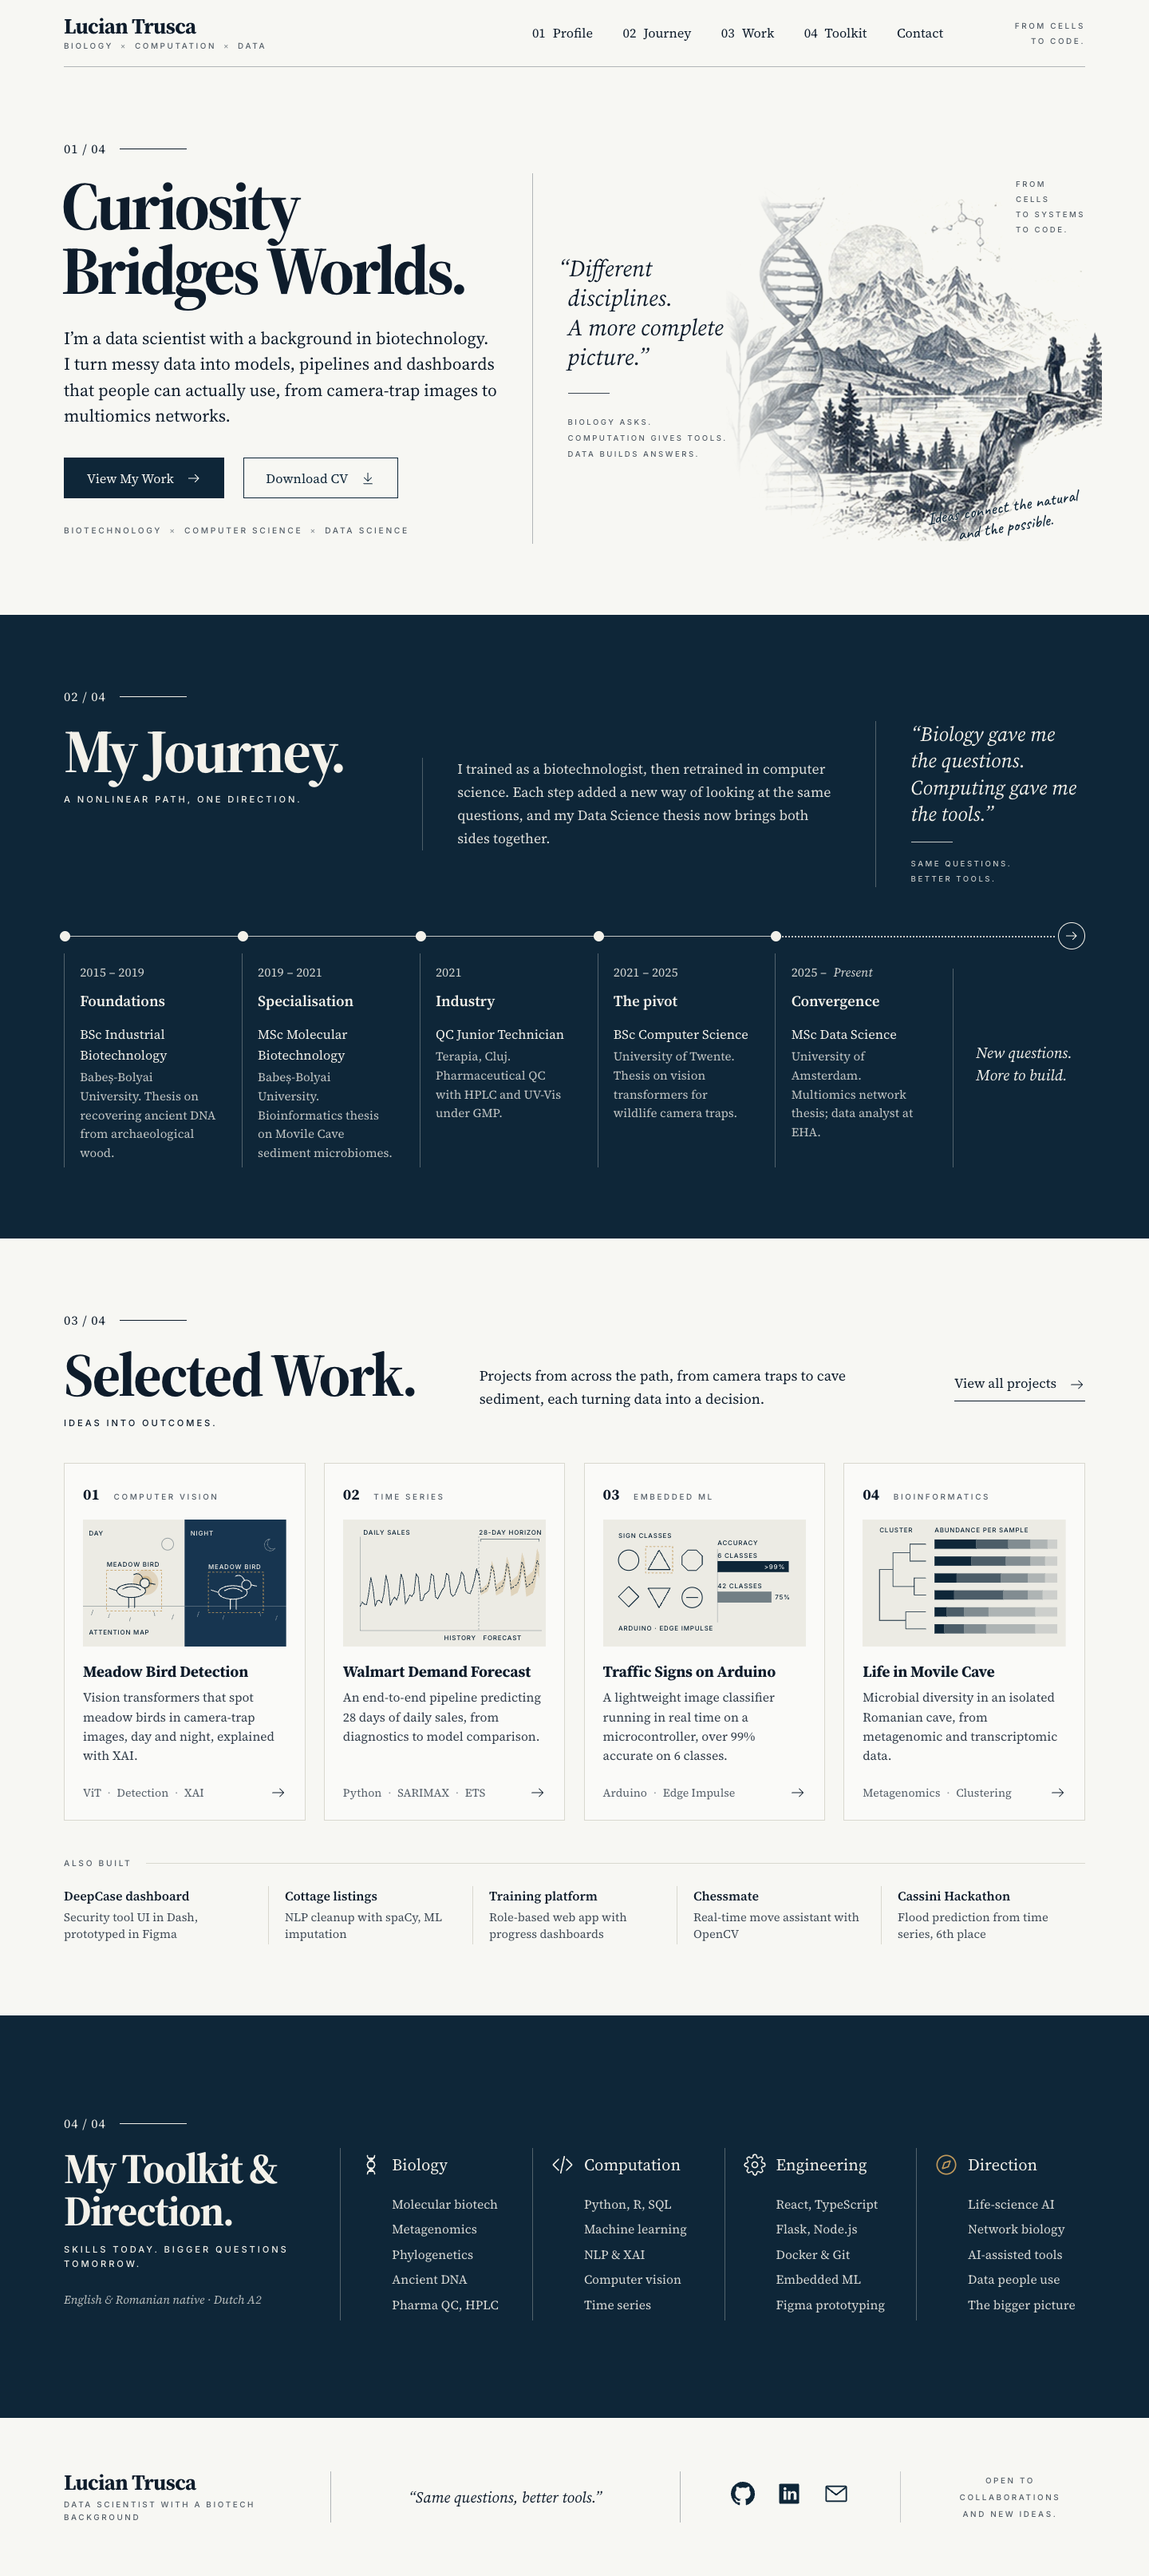
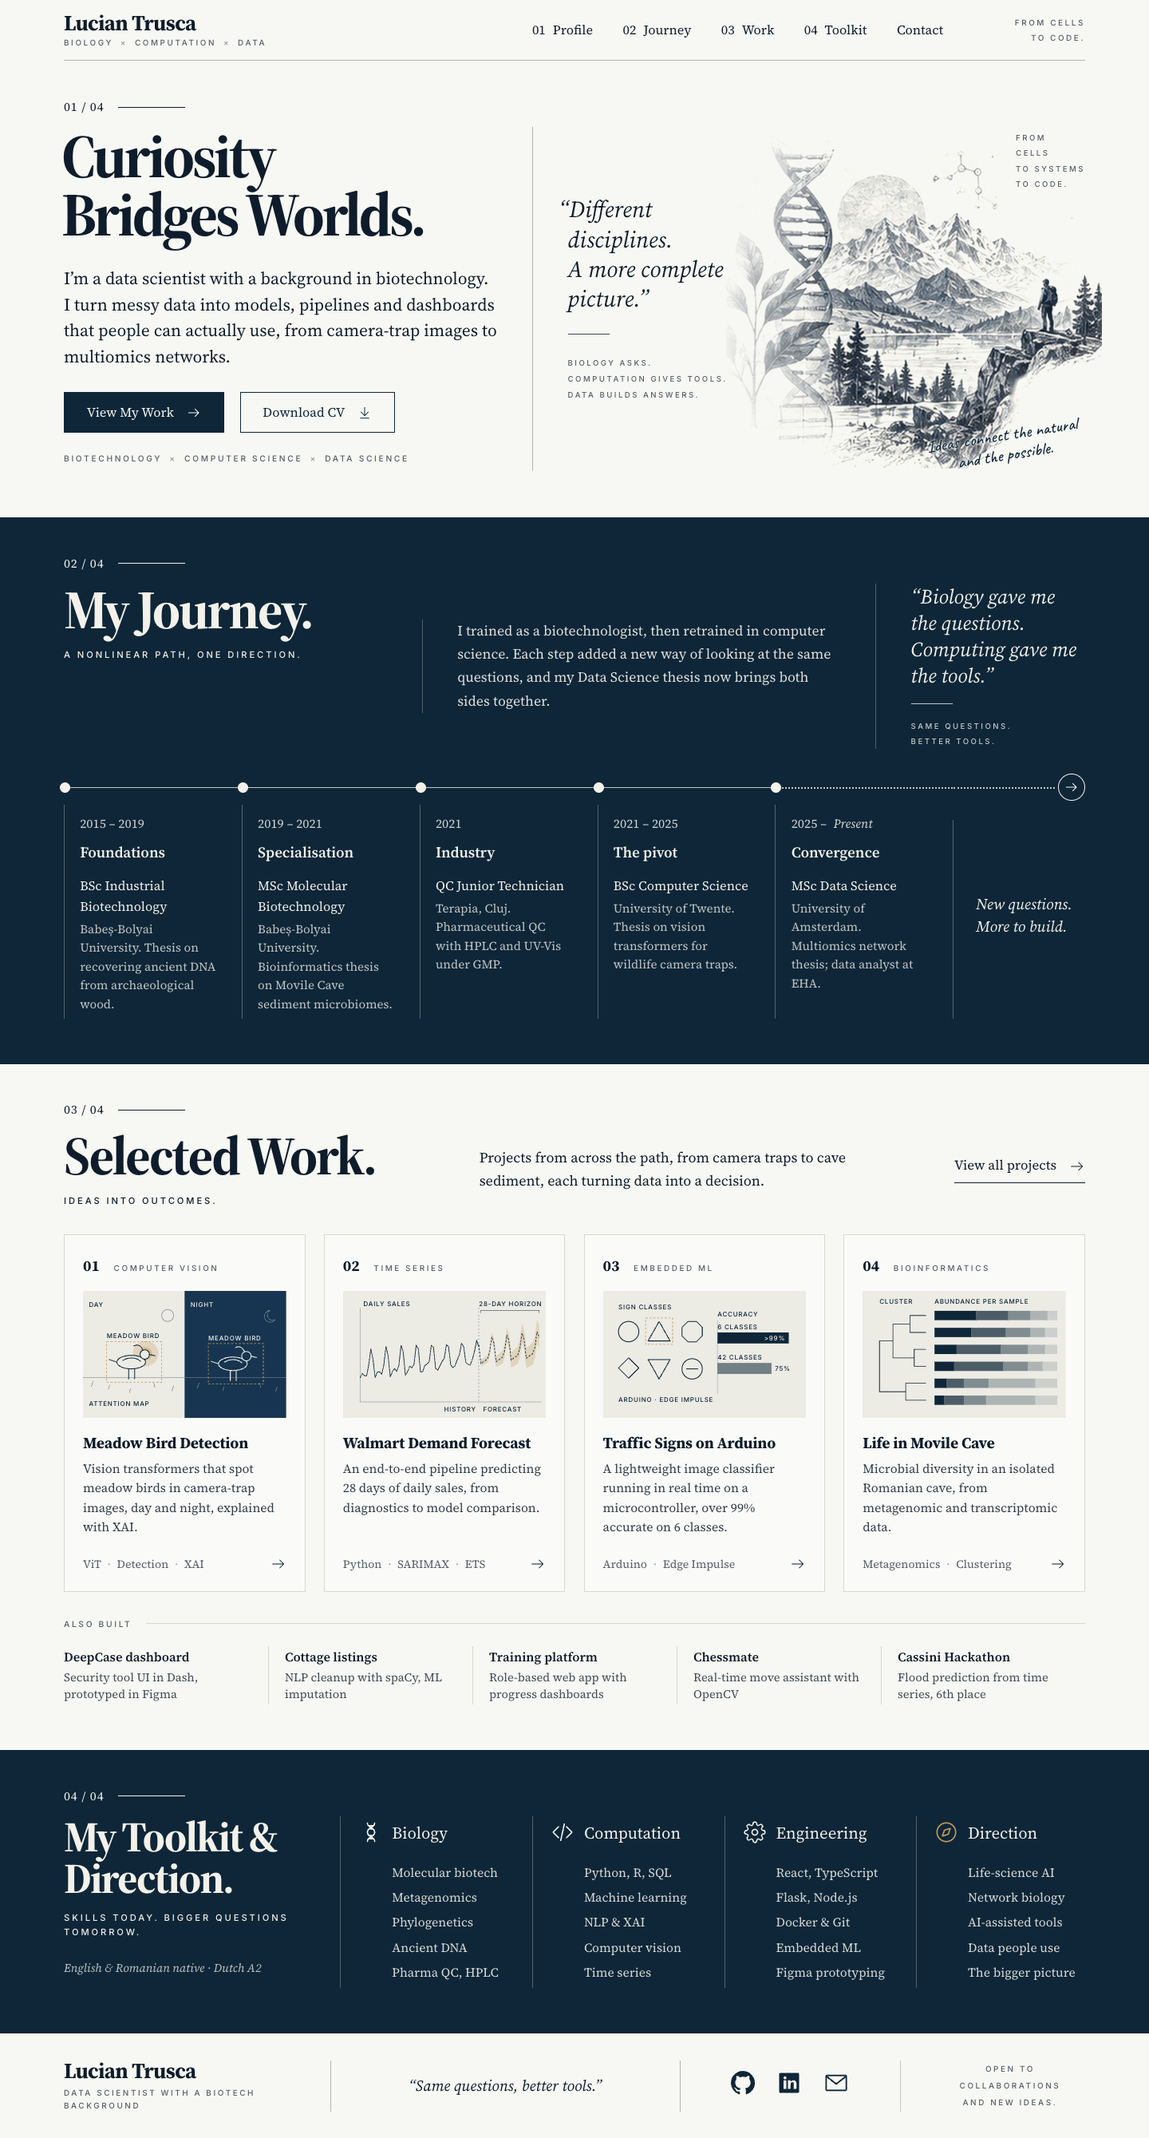
Tighten section spacing and type scale
Less top padding per band, content-driven heights, headlines ~10% smaller.

diff --git a/src/styles/tokens.css b/src/styles/tokens.css
@@ -15,14 +15,14 @@
   --sans: 'Inter', system-ui, sans-serif;
   --hand: 'Caveat', cursive;
 
-  --hero: clamp(3rem, 1.4rem + 4.4vw, 5.6rem);
-  --title: clamp(2.8rem, 1.2rem + 4vw, 5.2rem);
+  --hero: clamp(2.75rem, 1.3rem + 3.9vw, 5rem);
+  --title: clamp(2.5rem, 1.1rem + 3.5vw, 4.5rem);
 
   --max: 1280px;
   --gutter: 24px;
   --margin: clamp(20px, 5vw, 64px);
-  --header-h: 84px;
-  --band-pad: clamp(3.5rem, 2rem + 4vw, 6rem);
+  --header-h: 76px;
+  --band-pad: clamp(2.5rem, 1.4rem + 2.4vw, 4rem);
 }
 
 *, *::before, *::after { box-sizing: border-box; }

diff --git a/docs/design-brief.md b/docs/design-brief.md
@@ -150,7 +150,7 @@ Do not polish individual project descriptions before the layout exists; the wire
 
 Visual language from `docs/mockup-v1.png`: paper `#f7f7f3`, navy `#0e2638`, Source Serif 4 (bold headlines, italic quotes) + Inter for letterspaced labels + Caveat for the one handwritten note, `01 / 04` labels with a rule, quote columns behind thin vertical rules, navy + outline buttons with arrow icons, brass `#c29a5b` as the single accent. All copy comes from `Resume_DS.tex` and lives in `src/data/site.ts`.
 
-Measured at 1440×900 (content-driven): Profile 76vh, Journey 87vh, Work 108vh, Toolkit 56vh, Footer 22vh.
+Measured at 1440×900 (content-driven, tightened in revision 3): Profile 64vh, Journey 76vh, Work 95vh, Toolkit 39vh, Footer 14vh.
 
 - **Header:** name + `Biology × Computation × Data`, numbered serif nav + Contact, two-line motto right, hairline under.
 - **Profile:** 44/56 split with a vertical rule. Left: headline, lead, buttons, `×` kicker. Right: italic quote + triad over the etched art (cropped from the mockup, text inpainted out, edges faded; replace with hi-res art), small-caps note top-right, handwritten note bottom-right.
